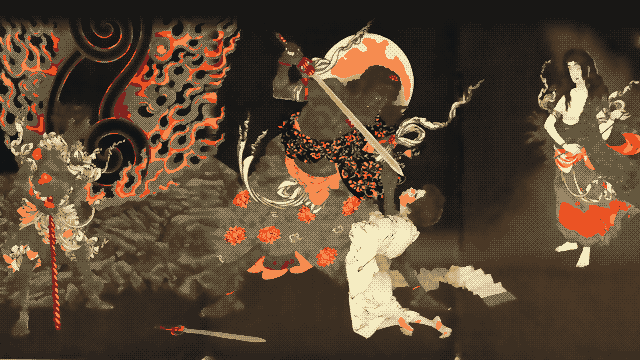
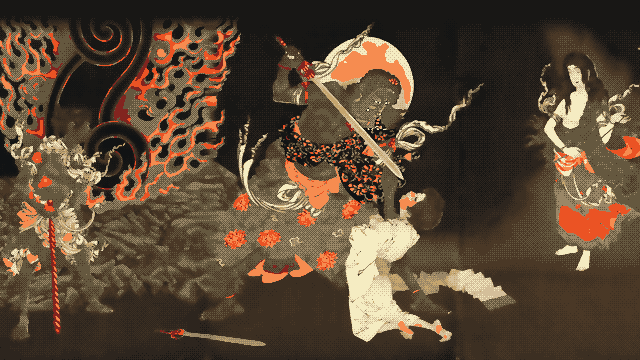
wallpapers, a second look: the repaired set built and looked at, every picture at 2×
Raijin and Fujin inside their painting, no flat slab and no fold line; Oiwa's chin, her
one red kept and the flecks gone (speck); Fudō's third sheet evened; Yoshino's title out by
its ink alone; Seigen's crest, the hag, Benten's smudge, Hagoromo's fan, Willow's uneven
fade. heal() no longer wraps round the picture (a hole at the left took a tone from the far
right); the edge check tells a print's margin from a plain ground: test_masters holds both.

diff --git a/tools/build-masters.py b/tools/build-masters.py
@@ -23,9 +23,11 @@ Reads art/masters/masters.toml — one table a picture:
                                  a seal, a poem card) made ground, filled in from all round it
     marks   = [[x0, y0, x1, y1], …]  in the picture's pixels: a print's writing on a ground that must
                                  stay (its clouds, their contour): only the ink in the box filled in,
-                                 no patch left to see
+                                 no patch left to see; a fifth number, how far below the ground ink
+                                 starts (where the writing crosses a line paler than itself)
     fields  = [[[ax, ay], [x, y], …], …]  a large thing to take out, its outline in the picture's
-                                 pixels: one colour, the print's own at ax, ay
+                                 pixels: one colour, the print's own at ax, ay (or a line carried
+                                 on across what was taken out)
     even    = [[x, reach], …]    two sheets of a print inked apart: the step in lightness across the
                                  picture's column x shared out between them, row by row, less and
                                  less over REACH columns each way
@@ -36,6 +38,8 @@ Reads art/masters/masters.toml — one table a picture:
                                  edge, carried on)
     paper   = 0.9                lightness (0 … 1 of the picture's) from which it is the bare paper:
                                  a stain or a ghost of old print goes, a light print's ground lies flat
+    speck   = 4                  an accent in a group of fewer pixels than this is the ramp's: a faded
+                                 print's flecks go, its one strong red stays
     smooth  = 2                  passes of the smoothing
 writes art/masters/out/NAME.png: 640 × 360 pixels, every one a colour of its mood's palette
 (an indexed PNG: a few dozen kilobytes) — the screen shows each as 3 × 3 (1920 × 1080; 2 × 2 on
@@ -146,9 +150,11 @@ def heal(lab, hole):
     for val, wt in reversed(levels[:-1]):
         up = np.repeat(np.repeat(cur, 2, 0), 2, 1)
         up = np.pad(up, ((0, wt.shape[0] - up.shape[0]), (0, wt.shape[1] - up.shape[1]), (0, 0)), mode="edge")
-        # (a soft step, so the coarse scale's blocks do not show)
-        for axis in (0, 1):
-            up = (np.roll(up, 1, axis) + 2 * up + np.roll(up, -1, axis)) / 4
+        # (a soft step, so the coarse scale's blocks do not show; at the picture's edge it stops:
+        # wrapped round, a hole at the left took a tone from the far right)
+        up = np.pad(up, ((1, 1), (1, 1), (0, 0)), mode="edge")
+        up = (up[:-2] + 2 * up[1:-1] + up[2:]) / 4
+        up = (up[:, :-2] + 2 * up[:, 1:-1] + up[:, 2:]) / 4
         k = np.clip(wt, 0, 1)[..., None]
         cur = val + (1 - k) * up
     return np.where(hole[..., None], cur, lab)
@@ -193,11 +199,11 @@ def smooth(lab, passes=2, sigma_l=0.06):
 
 def dark_marks(L, below=0.035):
     """L: a box of the picture's lightness. Its writing: what lies darker than the ground round it
-    (a 15 × 15 median), and a pixel all round that."""
+    (a 15 × 15 median), and two pixels all round that (the ink's soft edge, else a pale ghost of it)."""
     im = Image.fromarray((np.clip(L, 0, 1) * 255).astype(np.uint8))
     ground = np.asarray(im.filter(ImageFilter.MedianFilter(15)), dtype=np.float64) / 255
     ink = Image.fromarray(((L < ground - below) * 255).astype(np.uint8))
-    return np.asarray(ink.filter(ImageFilter.MaxFilter(3))) > 0
+    return np.asarray(ink.filter(ImageFilter.MaxFilter(5))) > 0
 
 
 def even(lab, x, reach, wide=6, sigma=12, most=0.1):
@@ -280,7 +286,7 @@ def calm_top(lab, mood, fades=()):
     return lab * keep + ink * (1 - keep)
 
 
-def quantise(lab, mood, chroma=0.07, hue_deg=40, margin=0.1):
+def quantise(lab, mood, chroma=0.07, hue_deg=40, least=None, margin=0.1):
     """Each pixel: an accent where it is strongly coloured (chroma over CHROMA) and an accent's
     hue is within HUE_DEG of its own — the nearest such by OKLab —, else a step of the ramp by
     its lightness alone, two neighbouring steps mixed by a 4 × 4 Bayer threshold where it falls
@@ -305,7 +311,7 @@ def quantise(lab, mood, chroma=0.07, hue_deg=40, margin=0.1):
     d = np.where(dh < hue_deg, d, np.inf)
     best = d.argmin(-1)
     use = (c > chroma) & np.isfinite(d.min(-1))
-    use &= ~specks(use)
+    use &= ~specks(use, least or ACCENT_MIN)
     return np.where(use, len(rl) + best, ramp_idx)
 
 
@@ -337,8 +343,8 @@ def specks(mask, least=ACCENT_MIN):
 
 # the edges a picture must not have (the master's T18 review: six had a print's paper margin,
 # its frame line or a mount at the screen's edge), by lightness, side by side: flat lines at the
-# edge (one ink across: paper, a mount) unlike the EDGE_IN after them — a print's plain ground
-# going on inside is its own; or the outer 1–EDGE_BAND lines stepping by more than EDGE_STEP
+# edge (one ink across: paper, a mount) unlike the EDGE_IN after them (their median: a print's
+# plain ground going on inside is its own, whatever lies on it); or the outer 1–EDGE_BAND lines stepping by more than EDGE_STEP
 # from the EDGE_BAND just inside them (a frame line) — a painting's own gradient ramps, it does
 # not step. (A margin of dithered paper wider than that is seen only by eye: lotus-sutra-gateway's)
 EDGE_BAND, EDGE_IN, EDGE_STEP, EDGE_FLAT, EDGE_LINE = 4, 20, 0.08, 0.03, 0.05
@@ -356,7 +362,7 @@ def edges(L):
         while k < 40 and a[k].std() < EDGE_FLAT:
             k += 1
         if k:
-            inner = a[k:k + EDGE_IN].mean()
+            inner = np.median(a[k:k + EDGE_IN])
             if abs(a[:k].mean() - inner) > EDGE_LINE:
                 found.append(f"{side}: {k} flat {what}{'s' * (k > 1)} at L {a[:k].mean():.2f}, inside {inner:.2f}")
                 continue
@@ -382,12 +388,13 @@ def build(name, spec):
     lab = oklab(lin)
     for x0, y0, x1, y1 in spec.get("clean", ()):
         past[y0:y1, x0:x1] = True
-    for x0, y0, x1, y1 in spec.get("marks", ()):
-        past[y0:y1, x0:x1] |= dark_marks(lab[y0:y1, x0:x1, 0])
+    for x0, y0, x1, y1, *below in spec.get("marks", ()):
+        past[y0:y1, x0:x1] |= dark_marks(lab[y0:y1, x0:x1, 0], *below)
     for (ax, ay), *poly in spec.get("fields", ()):
         mask = Image.new("1", (W, H), 0)
         ImageDraw.Draw(mask).polygon([tuple(q) for q in poly], fill=1)
         lab[np.asarray(mask, bool)] = lab[ay - 2:ay + 3, ax - 2:ax + 3].mean((0, 1))
+        past[np.asarray(mask, bool)] = False       # (drawn: it stays over a hole it crosses)
     for x, reach in spec.get("even", ()):
         lab = even(lab, x, reach)
     for box in spec.get("dodge", ()):
@@ -395,7 +402,7 @@ def build(name, spec):
     # (the holes filled before the smoothing and after it: its edge-keeping never sees what was there)
     lab = smooth(heal(lab, past), passes=spec.get("smooth", 2))
     lab = calm_top(tones(heal(lab, past), spec, spec["theme"], ~past), spec["theme"], spec.get("fade", ()))
-    idx = quantise(lab, spec["theme"], spec.get("chroma", 0.07), spec.get("hue", 40))
+    idx = quantise(lab, spec["theme"], spec.get("chroma", 0.07), spec.get("hue", 40), spec.get("speck"))
     idx[:TOP_FLAT] = (TOP_INK[spec["theme"]] % len(RAMP[spec["theme"]]))
     if "paper" in spec:                # (what is left of a stain on the bare paper: a few pixels, gone)
         bare = len(RAMP[spec["theme"]]) - 1
